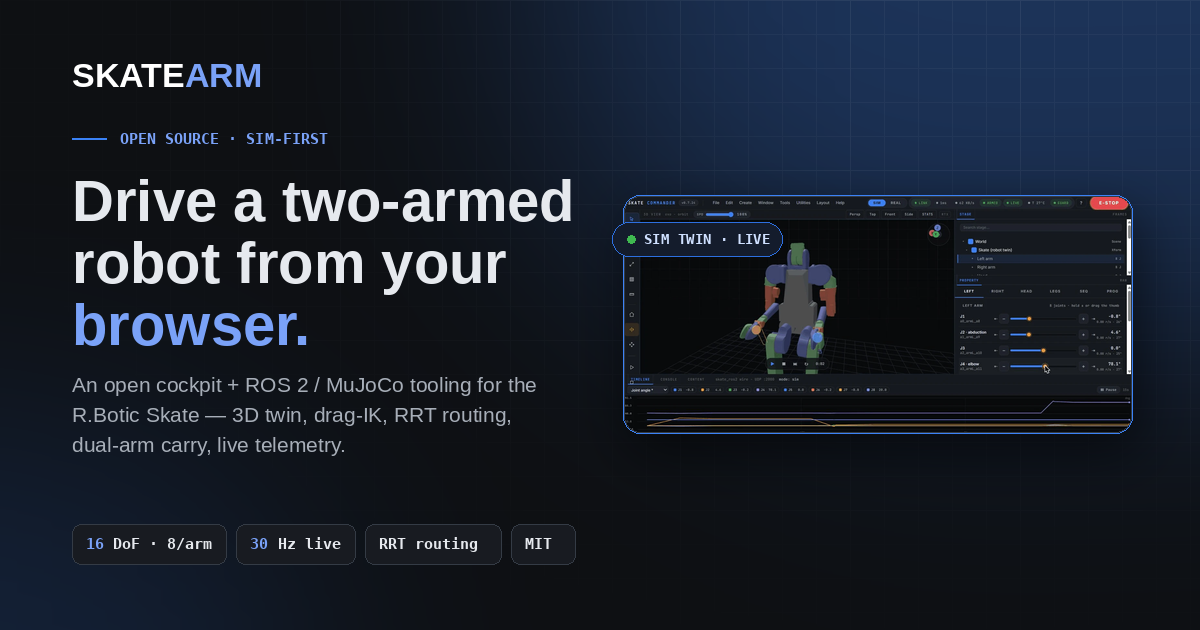
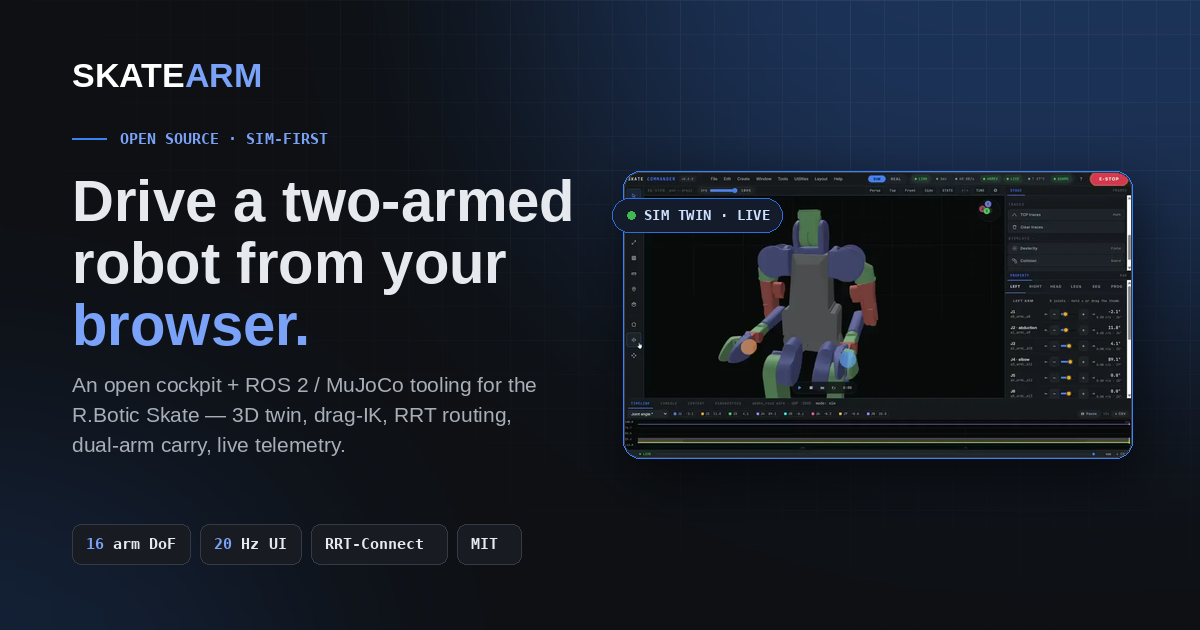
site: re-review round 2 fixes (real bugs + polish)
Bugs: 'Watch the 3:46 film' now points at the GitHub Pages copy (video/commander_v08_product.mp4) which streams inline, instead of raw.githubusercontent which force-downloads 33 MB; same fix in README. Regenerated og_card.png — chips now '20 Hz UI / RRT-Connect' (was a stale '30 Hz'), embedded a v0.8 cockpit shot (no stale version string).

Polish: stat band 5->4 (dropped the 1615 mm hardware spec; clean 4-up / 2x2, no mobile orphan); hero chips drop the ROS 2 / MuJoCo repeats (already in eyebrow + interop) -> 16 arm DoF / RRT-Connect / MIT; examples gallery drops 6 duplicate Launch links (all to one URL) for per-card Source + a single 'Launch the cockpit' CTA; 'Star on GitHub' -> 'View the source'; '0.3 s comms-loss deadman' -> 'deadman heartbeat' (the watchdog is firmware-side); a global Pause/Play-motion toggle for the looping videos (WCAG 2.2.2, plus the existing reduced-motion pause); --line3 raised to #5A626E for >=3:1 ghost-button borders; byline + card-link tap padding; meta description trimmed; hero video preload=metadata + fetchpriority + LCP poster preload; twitter:description + image:alt; aria-hidden on the cockpit check icons.

Changed region(s): [[0.5242, 0.2714, 0.9558, 0.754], [0.0925, 0.8444, 0.4625, 0.8746], [0.5242, 0.5127, 0.555, 0.5429]]

diff --git a/docs/index.html b/docs/index.html
@@ -4,11 +4,12 @@
 <meta charset="utf-8">
 <meta name="viewport" content="width=device-width, initial-scale=1">
 <title>SkateArm — drive a two-armed robot from your browser</title>
-<meta name="description" content="An open browser cockpit + ROS 2 / MuJoCo tooling for the R.Botic Skate: a 3D digital twin you drive from your browser, with drag-IK, RRT collision-routing, dual-arm carry, live telemetry and planning previews. Sim-first today, built to switch to the real robot.">
+<meta name="description" content="An open browser cockpit + ROS 2 / MuJoCo tooling for the R.Botic Skate: a 3D twin you drive from your browser — drag-IK, RRT routing, dual-arm carry, live telemetry. Sim-first today.">
 <meta name="author" content="DSL Robotics">
 <link rel="canonical" href="https://dsl-robotics.github.io/skatearm/">
 <link rel="icon" type="image/png" href="img/favicon.png">
 <link rel="apple-touch-icon" href="img/apple-touch-icon.png">
+<link rel="preload" as="image" href="img/commander_mirror_poster.webp" fetchpriority="high">
 <meta property="og:type" content="website">
 <meta property="og:site_name" content="SkateArm">
 <meta property="og:title" content="SkateArm — drive a two-armed robot from your browser">
@@ -21,6 +22,8 @@
 <meta name="twitter:card" content="summary_large_image">
 <meta name="twitter:title" content="SkateArm — drive a two-armed robot from your browser">
 <meta name="twitter:image" content="https://dsl-robotics.github.io/skatearm/img/og_card.png">
+<meta name="twitter:image:alt" content="SkateArm — drive a two-armed robot from your browser">
+<meta name="twitter:description" content="Open browser cockpit + ROS 2 / MuJoCo tooling for the R.Botic Skate. Digital twin, drag-IK, RRT routing, dual-arm carry, live telemetry. Sim-first.">
 <meta name="theme-color" content="#0E1013">
 <link rel="preconnect" href="https://fonts.googleapis.com">
 <link rel="preconnect" href="https://fonts.gstatic.com" crossorigin>
@@ -31,7 +34,7 @@
 <style>
   :root{
     --bg:#0E1013; --bg2:#08090B; --panel:#16191E; --panel2:#1E222A;
-    --line:#2A2F37; --line2:#343B45; --line3:#4A515C; --fg:#E6E9EE; --fg2:#A7AEB8; --dim:#9BA2AC; --faint:#828A95;
+    --line:#2A2F37; --line2:#343B45; --line3:#5A626E; --fg:#E6E9EE; --fg2:#A7AEB8; --dim:#9BA2AC; --faint:#828A95;
     --accent:#3B82F6; --accent-lt:#6AA0F8; --accent-dk:#2D6FE0; --amber:#F5A623; --ok:#3FB950;
     --grid:rgba(150,160,175,.045); --grid2:rgba(150,160,175,.08);
     --sans:"Inter","Segoe UI",system-ui,sans-serif;
@@ -115,7 +118,7 @@
   .chip{font:500 12.5px var(--mono);color:var(--fg2);border:1px solid var(--line);border-radius:7px;padding:6px 11px;background:rgba(30,34,42,.5);}
   .chip b{color:var(--fg);}
   .byline{margin-top:20px;font:500 13px var(--mono);color:var(--faint);}
-  .byline a{color:var(--fg2);}
+  .byline a{color:var(--fg2);display:inline-block;padding:7px 0;}
   .byline a:hover{color:#fff;}
   .frame{position:relative;border:1px solid var(--line2);border-radius:16px;overflow:hidden;background:var(--bg2);box-shadow:0 30px 70px -40px rgba(0,0,0,.9);}
   .frame .bar{display:flex;align-items:center;gap:7px;padding:9px 13px;border-bottom:1px solid var(--line);background:var(--panel);}
@@ -135,7 +138,7 @@
 
   /* stat band (flat, mono numerics) */
   .stats{border-top:1px solid var(--line);border-bottom:1px solid var(--line);padding:52px 0;background:rgba(8,9,11,.6);}
-  .statgrid{display:grid;grid-template-columns:repeat(5,1fr);gap:22px;text-align:center;}
+  .statgrid{display:grid;grid-template-columns:repeat(4,1fr);gap:22px;text-align:center;}
   .statgrid b{display:block;font:700 clamp(26px,3.6vw,40px)/1 var(--mono);font-variant-numeric:tabular-nums;letter-spacing:-.01em;color:#fff;}
   .statgrid span{display:block;margin-top:11px;font:500 12.5px var(--mono);color:var(--faint);letter-spacing:.03em;}
   @media(max-width:760px){.statgrid{grid-template-columns:repeat(2,1fr);gap:30px 18px;}}
@@ -172,7 +175,7 @@
   .card h4{font-size:15.5px;font-weight:600;}
   .card p{color:var(--fg2);font-size:13px;line-height:1.5;margin:6px 0 0;flex:1;}
   .card .links{display:flex;gap:14px;margin-top:13px;font:600 12.5px var(--mono);}
-  .card .links a{padding:5px 0;}
+  .card .links a{padding:11px 0;display:inline-flex;align-items:center;}
   .card .links a.run{color:var(--accent-lt);} .card .links a.src{color:var(--faint);}
   @media(max-width:820px){.gal{grid-template-columns:1fr 1fr;}}
   @media(max-width:560px){.gal{grid-template-columns:1fr;}}
@@ -220,6 +223,11 @@
   .fbot{border-top:1px solid var(--line);padding-top:20px;display:flex;flex-wrap:wrap;gap:10px;justify-content:space-between;color:var(--faint);font-size:12px;}
   @media(max-width:760px){.fcols{grid-template-columns:1fr 1fr;}}
 
+  .motiontoggle{position:fixed;left:14px;bottom:14px;z-index:60;display:inline-flex;align-items:center;gap:7px;
+    padding:8px 12px;min-height:38px;border-radius:9px;border:1px solid var(--line3);background:rgba(14,16,19,.8);
+    backdrop-filter:blur(8px);color:var(--faint);font:600 11.5px var(--mono);cursor:pointer;opacity:.72;transition:opacity .15s,color .15s,border-color .15s;}
+  .motiontoggle:hover,.motiontoggle:focus-visible{opacity:1;color:#fff;border-color:var(--accent);}
+  @media(max-width:560px){.motiontoggle{left:10px;bottom:10px;padding:7px 10px;}}
   .reveal{opacity:0;transform:translateY(20px);transition:opacity .6s var(--ease),transform .6s var(--ease);}
   .reveal.in{opacity:1;transform:none;}
   @media(prefers-reduced-motion:reduce){html{scroll-behavior:auto;}.reveal{opacity:1;transform:none;transition:none;}}
@@ -258,8 +266,6 @@
       </div>
       <div class="specstrip">
         <span class="chip"><b>16</b> arm DoF &middot; 8/arm</span>
-        <span class="chip">MuJoCo twin</span>
-        <span class="chip">ROS 2 wire</span>
         <span class="chip">RRT-Connect</span>
         <span class="chip">MIT</span>
       </div>
@@ -268,7 +274,7 @@
     <div class="reveal">
       <div class="frame">
         <div class="bar"><i></i><i></i><i></i><span class="tag">Skate Commander &middot; live twin</span></div>
-        <video autoplay loop muted playsinline preload="auto" poster="img/commander_mirror_poster.webp" width="860" height="484" aria-label="The Skate Commander cockpit: drag-IK and mirror mode move both arms while live telemetry plots track the motion"><source src="img/commander_mirror.mp4" type="video/mp4"></video>
+        <video autoplay loop muted playsinline preload="metadata" fetchpriority="high" poster="img/commander_mirror_poster.webp" width="860" height="484" aria-label="The Skate Commander cockpit: drag-IK and mirror mode move both arms while live telemetry plots track the motion"><source src="img/commander_mirror.mp4" type="video/mp4"></video>
       </div>
     </div>
   </div>
@@ -278,9 +284,8 @@
   <div class="wrap statgrid">
     <div><b>60 Hz</b><span>control loop</span></div>
     <div><b>20 Hz</b><span>UI telemetry</span></div>
-    <div><b>0.3 s</b><span>comms-loss deadman</span></div>
+    <div><b>0.3 s</b><span>deadman heartbeat</span></div>
     <div><b>&lt;1 &micro;m</b><span>FK vs MuJoCo</span></div>
-    <div><b>1615 mm</b><span>Skate span &middot; R.Botic</span></div>
   </div>
 </section>
 
@@ -342,14 +347,14 @@
       <h2 style="margin-top:14px;">The cockpit is the product.</h2>
       <p class="lead">An Isaac-Sim-style workstation &mdash; menu bar, tool rail, a 3D MuJoCo twin, a Stage / Property dock and a timeline &mdash; running entirely in your browser over a WebSocket. No ROS, no Gazebo, no Linux to install just to look.</p>
       <ul class="pts">
-        <li><svg viewBox="0 0 16 16" fill="none" stroke="currentColor" stroke-width="1.8"><path d="M3 8.5 6.5 12 13 4"/></svg>Where RViz, Foxglove or the MuJoCo viewer only <i>show</i> robot state, this cockpit <b>drives</b> it.</li>
-        <li><svg viewBox="0 0 16 16" fill="none" stroke="currentColor" stroke-width="1.8"><path d="M3 8.5 6.5 12 13 4"/></svg>Built from the official URDF; FK matches MuJoCo link positions to under a micron.</li>
-        <li><svg viewBox="0 0 16 16" fill="none" stroke="currentColor" stroke-width="1.8"><path d="M3 8.5 6.5 12 13 4"/></svg>Starts E-stopped, arms at the robot's measured pose; a 0.3&nbsp;s comms-loss deadman dampens if the link drops.</li>
-        <li><svg viewBox="0 0 16 16" fill="none" stroke="currentColor" stroke-width="1.8"><path d="M3 8.5 6.5 12 13 4"/></svg>Python programs + teach-in: move the arms by hand, it writes the code.</li>
+        <li><svg viewBox="0 0 16 16" fill="none" stroke="currentColor" stroke-width="1.8" aria-hidden="true"><path d="M3 8.5 6.5 12 13 4"/></svg>Where RViz, Foxglove or the MuJoCo viewer only <i>show</i> robot state, this cockpit <b>drives</b> it.</li>
+        <li><svg viewBox="0 0 16 16" fill="none" stroke="currentColor" stroke-width="1.8" aria-hidden="true"><path d="M3 8.5 6.5 12 13 4"/></svg>Built from the official URDF; FK matches MuJoCo link positions to under a micron.</li>
+        <li><svg viewBox="0 0 16 16" fill="none" stroke="currentColor" stroke-width="1.8" aria-hidden="true"><path d="M3 8.5 6.5 12 13 4"/></svg>Starts E-stopped, arms at the robot's measured pose; the firmware's 0.3&nbsp;s deadman watchdog dampens the arms if the heartbeat stops.</li>
+        <li><svg viewBox="0 0 16 16" fill="none" stroke="currentColor" stroke-width="1.8" aria-hidden="true"><path d="M3 8.5 6.5 12 13 4"/></svg>Python programs + teach-in: move the arms by hand, it writes the code.</li>
       </ul>
       <div class="ctas">
         <a class="btn primary" href="https://raw.githack.com/dsl-robotics/skatearm/main/tools/skate_commander/preview.html" target="_blank" rel="noopener">Launch the cockpit</a>
-        <a class="btn ghost" href="https://raw.githubusercontent.com/dsl-robotics/skatearm/main/docs/video/commander_v08_product.mp4" target="_blank" rel="noopener">Watch the 3:46 film</a>
+        <a class="btn ghost" href="video/commander_v08_product.mp4" target="_blank" rel="noopener">Watch the 3:46 film</a>
       </div>
     </div>
     <div class="reveal">
@@ -370,7 +375,7 @@
     <svg viewBox="0 0 900 220" xmlns="http://www.w3.org/2000/svg" role="img" aria-label="Architecture: the browser cockpit and ROS 2 both speak the SkateLink native UDP wire to a MuJoCo twin today and the real Skate when hardware lands, at a 60 Hz command rate">
       <defs>
         <marker id="ah" markerWidth="9" markerHeight="9" refX="6" refY="3" orient="auto"><path d="M0 0 L6 3 L0 6 z" fill="#6AA0F8"/></marker>
-        <style>.bx{fill:#16191E;stroke:#4A515C;rx:12;} .t{fill:#E6E9EE;font:600 15px Inter,sans-serif;} .s{fill:#9BA2AC;font:500 12px 'JetBrains Mono',monospace;} .w{stroke:#6AA0F8;stroke-width:1.6;fill:none;} .lab{fill:#828A95;font:600 11px 'JetBrains Mono',monospace;}</style>
+        <style>.bx{fill:#16191E;stroke:#5A626E;rx:12;} .t{fill:#E6E9EE;font:600 15px Inter,sans-serif;} .s{fill:#9BA2AC;font:500 12px 'JetBrains Mono',monospace;} .w{stroke:#6AA0F8;stroke-width:1.6;fill:none;} .lab{fill:#828A95;font:600 11px 'JetBrains Mono',monospace;}</style>
       </defs>
       <rect class="bx" x="20" y="44" width="190" height="78" rx="12"/>
       <text class="t" x="115" y="78" text-anchor="middle">Skate Commander</text>
@@ -407,12 +412,15 @@
       <p class="lead">Open the cockpit (it runs on recorded telemetry) and read the source behind each capability. Grab a joint slider, jog, or press Home to drive the twin yourself.</p>
     </div>
     <div class="gal reveal">
-      <article class="card"><div class="thumb"><img src="img/commander_mirror_poster.webp" loading="lazy" alt="Mirror mode drives both arms from one slider in the cockpit"></div><div class="body"><h4>Drag-IK &amp; mirror</h4><p>Glide a wrist in 3D; mirror both arms from one input.</p><div class="links"><a class="run" href="https://raw.githack.com/dsl-robotics/skatearm/main/tools/skate_commander/preview.html" target="_blank" rel="noopener">Launch &#8599;</a><a class="src" href="https://github.com/dsl-robotics/skatearm/blob/main/tools/skate_commander/skate_commander/kinematics.py" target="_blank" rel="noopener">Source</a></div></div></article>
-      <article class="card"><div class="thumb"><img src="img/routing_poster.webp" loading="lazy" alt="The cockpit drives an arm along an RRT-planned path that routes around a self-collision"></div><div class="body"><h4>Plan around collisions</h4><p>RRT-Connect routes around self-collisions; ghost-preview gates the move.</p><div class="links"><a class="run" href="https://raw.githack.com/dsl-robotics/skatearm/main/tools/skate_commander/preview.html" target="_blank" rel="noopener">Launch &#8599;</a><a class="src" href="https://github.com/dsl-robotics/skatearm/blob/main/tools/skate_commander/skate_commander/planner.py" target="_blank" rel="noopener">Source</a></div></div></article>
-      <article class="card"><div class="thumb"><img src="img/cockpit_plots.webp" loading="lazy" alt="Live telemetry strip charts and a TF frame tree under the 3D view"></div><div class="body"><h4>Live telemetry &amp; TF</h4><p>20 Hz strip charts, an RViz-style TF frame tree, diagnostics.</p><div class="links"><a class="run" href="https://raw.githack.com/dsl-robotics/skatearm/main/tools/skate_commander/preview.html" target="_blank" rel="noopener">Launch &#8599;</a><a class="src" href="https://github.com/dsl-robotics/skatearm/tree/main/tools/skate_commander" target="_blank" rel="noopener">Source</a></div></div></article>
-      <article class="card"><div class="thumb"><img src="img/cockpit_dex.webp" loading="lazy" alt="A colour-coded manipulability cloud of the arm's reachable workspace"></div><div class="body"><h4>Manipulability cloud</h4><p>A DEX cloud of the reachable workspace, coloured by dexterity.</p><div class="links"><a class="run" href="https://raw.githack.com/dsl-robotics/skatearm/main/tools/skate_commander/preview.html" target="_blank" rel="noopener">Launch &#8599;</a><a class="src" href="https://github.com/dsl-robotics/skatearm/blob/main/tools/skate_commander/skate_commander/kinematics.py" target="_blank" rel="noopener">Source</a></div></div></article>
-      <article class="card"><div class="thumb"><img src="img/cockpit_pcl.webp" loading="lazy" alt="A depth point cloud of the scene with a synthesized top-down grasp"></div><div class="body"><h4>Point cloud &amp; smart-pick</h4><p>Depth back-projected to a cloud; top-down grasp synthesis. <span style="color:var(--faint)">(sim-validated)</span></p><div class="links"><a class="run" href="https://raw.githack.com/dsl-robotics/skatearm/main/tools/skate_commander/preview.html" target="_blank" rel="noopener">Launch &#8599;</a><a class="src" href="https://github.com/dsl-robotics/skatearm/blob/main/tools/skate_commander/skate_commander/grasp.py" target="_blank" rel="noopener">Source</a></div></div></article>
-      <article class="card"><div class="thumb"><img src="img/teachin_poster.webp" loading="lazy" alt="Teaching a program by moving the arms by hand in the cockpit"></div><div class="body"><h4>Teach-in programs</h4><p>Move the arms by hand; the cockpit writes the <code style="font-family:var(--mono);font-size:12px;color:var(--accent-lt)">rbt</code> program.</p><div class="links"><a class="run" href="https://raw.githack.com/dsl-robotics/skatearm/main/tools/skate_commander/preview.html" target="_blank" rel="noopener">Launch &#8599;</a><a class="src" href="https://github.com/dsl-robotics/skatearm/blob/main/tools/skate_commander/skate_commander/program.py" target="_blank" rel="noopener">Source</a></div></div></article>
+      <article class="card"><div class="thumb"><img src="img/commander_mirror_poster.webp" loading="lazy" alt="Mirror mode drives both arms from one slider in the cockpit"></div><div class="body"><h4>Drag-IK &amp; mirror</h4><p>Glide a wrist in 3D; mirror both arms from one input.</p><div class="links"><a class="src" href="https://github.com/dsl-robotics/skatearm/blob/main/tools/skate_commander/skate_commander/kinematics.py" target="_blank" rel="noopener">Source</a></div></div></article>
+      <article class="card"><div class="thumb"><img src="img/routing_poster.webp" loading="lazy" alt="The cockpit drives an arm along an RRT-planned path that routes around a self-collision"></div><div class="body"><h4>Plan around collisions</h4><p>RRT-Connect routes around self-collisions; ghost-preview gates the move.</p><div class="links"><a class="src" href="https://github.com/dsl-robotics/skatearm/blob/main/tools/skate_commander/skate_commander/planner.py" target="_blank" rel="noopener">Source</a></div></div></article>
+      <article class="card"><div class="thumb"><img src="img/cockpit_plots.webp" loading="lazy" alt="Live telemetry strip charts and a TF frame tree under the 3D view"></div><div class="body"><h4>Live telemetry &amp; TF</h4><p>20 Hz strip charts, an RViz-style TF frame tree, diagnostics.</p><div class="links"><a class="src" href="https://github.com/dsl-robotics/skatearm/tree/main/tools/skate_commander" target="_blank" rel="noopener">Source</a></div></div></article>
+      <article class="card"><div class="thumb"><img src="img/cockpit_dex.webp" loading="lazy" alt="A colour-coded manipulability cloud of the arm's reachable workspace"></div><div class="body"><h4>Manipulability cloud</h4><p>A DEX cloud of the reachable workspace, coloured by dexterity.</p><div class="links"><a class="src" href="https://github.com/dsl-robotics/skatearm/blob/main/tools/skate_commander/skate_commander/kinematics.py" target="_blank" rel="noopener">Source</a></div></div></article>
+      <article class="card"><div class="thumb"><img src="img/cockpit_pcl.webp" loading="lazy" alt="A depth point cloud of the scene with a synthesized top-down grasp"></div><div class="body"><h4>Point cloud &amp; smart-pick</h4><p>Depth back-projected to a cloud; top-down grasp synthesis. <span style="color:var(--faint)">(sim-validated)</span></p><div class="links"><a class="src" href="https://github.com/dsl-robotics/skatearm/blob/main/tools/skate_commander/skate_commander/grasp.py" target="_blank" rel="noopener">Source</a></div></div></article>
+      <article class="card"><div class="thumb"><img src="img/teachin_poster.webp" loading="lazy" alt="Teaching a program by moving the arms by hand in the cockpit"></div><div class="body"><h4>Teach-in programs</h4><p>Move the arms by hand; the cockpit writes the <code style="font-family:var(--mono);font-size:12px;color:var(--accent-lt)">rbt</code> program.</p><div class="links"><a class="src" href="https://github.com/dsl-robotics/skatearm/blob/main/tools/skate_commander/skate_commander/program.py" target="_blank" rel="noopener">Source</a></div></div></article>
+    </div>
+    <div class="ctas" style="justify-content:center;margin-top:36px;">
+      <a class="btn primary" href="https://raw.githack.com/dsl-robotics/skatearm/main/tools/skate_commander/preview.html" target="_blank" rel="noopener">Launch the cockpit &mdash; no install</a>
     </div>
   </div>
 </section>
@@ -470,7 +478,7 @@
       <p>No install &mdash; the cockpit runs against baked telemetry, and you can jog the joints yourself. The source, the wire and the work-cell are all open.</p>
       <div class="ctas">
         <a class="btn primary" href="https://raw.githack.com/dsl-robotics/skatearm/main/tools/skate_commander/preview.html" target="_blank" rel="noopener">Launch the cockpit</a>
-        <a class="btn ghost" href="https://github.com/dsl-robotics/skatearm" target="_blank" rel="noopener">Star on GitHub</a>
+        <a class="btn ghost" href="https://github.com/dsl-robotics/skatearm" target="_blank" rel="noopener">View the source</a>
         <a class="btn ghost" href="commander.html">Read the docs</a>
       </div>
     </div>
@@ -513,12 +521,25 @@
   </div>
 </footer>
 
+<button class="motiontoggle" id="motiontoggle" type="button" aria-pressed="false" aria-label="Pause or play the looping demo videos"><span id="mt-ico" aria-hidden="true">&#10073;&#10073;</span> <span id="mt-txt">Pause motion</span></button>
+
 <script>
   const io=new IntersectionObserver((es)=>{es.forEach(e=>{if(e.isIntersecting){e.target.classList.add('in');io.unobserve(e.target);}});},{threshold:.1});
   document.querySelectorAll('.reveal').forEach(el=>io.observe(el));
-  if(window.matchMedia&&matchMedia('(prefers-reduced-motion: reduce)').matches){
-    document.querySelectorAll('video[autoplay]').forEach(v=>{v.removeAttribute('autoplay');try{v.pause();}catch(e){}});
-  }
+  (function(){
+    const vids=()=>document.querySelectorAll('video');
+    const mt=document.getElementById('motiontoggle'),ico=document.getElementById('mt-ico'),txt=document.getElementById('mt-txt');
+    let paused=false;
+    function apply(){
+      vids().forEach(v=>{ if(paused){try{v.pause();}catch(e){}} else {v.play().catch(()=>{});} });
+      mt.setAttribute('aria-pressed',paused?'true':'false');
+      ico.innerHTML=paused?'&#9654;':'&#10073;&#10073;'; txt.textContent=paused?'Play motion':'Pause motion';
+    }
+    mt.addEventListener('click',()=>{paused=!paused;apply();});
+    if(window.matchMedia&&matchMedia('(prefers-reduced-motion: reduce)').matches){
+      vids().forEach(v=>v.removeAttribute('autoplay')); paused=true; apply();
+    }
+  })();
 </script>
 </body>
 </html>

diff --git a/README.md b/README.md
@@ -33,7 +33,7 @@
 </div>
 
 <div align="center">
-  <a href="https://github.com/dsl-robotics/skatearm/blob/main/docs/video/commander_v08_product.mp4">
+  <a href="https://dsl-robotics.github.io/skatearm/video/commander_v08_product.mp4">
     <img src="docs/img/commander_v08_video_thumb.png" width="720" alt="Skate Commander v0.8 — product walkthrough (click to play)">
   </a>
 </div>